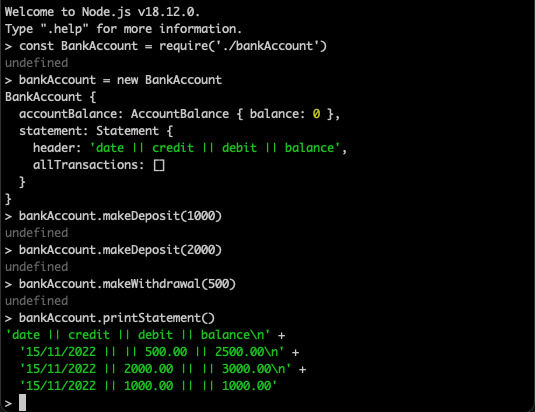
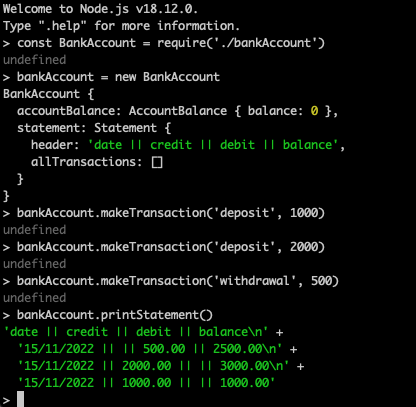
refactoredbank account app so transaction all occur in a single method, updated README & tests to match

diff --git a/spec/bankAccount.test.js b/spec/bankAccount.test.js
@@ -16,26 +16,26 @@ describe('BankAccount', () => {
     });
   });
 
-  describe('#makeDeposit', () => {
+  describe('#makeTransaction', () => {
     it('returns a statement displaying one deposit', () => {
-      bankAccount.makeDeposit(1000);
+      bankAccount.makeTransaction('deposit', 1000);
       expect(bankAccount.printStatement()).toMatch(
         '10/01/2023 || 1000.00 || || 1000.00'
       );
     });
 
     it('returns a statement displaying two deposits', () => {
-      bankAccount.makeDeposit(1000);
-      bankAccount.makeDeposit(2000);
+      bankAccount.makeTransaction('deposit', 1000);
+      bankAccount.makeTransaction('deposit', 2000);
       expect(bankAccount.printStatement()).toMatch(
         '10/01/2023 || 2000.00 || || 3000.00\n10/01/2023 || 1000.00 || || 1000.00'
       );
     });
 
     it('returns a statement displaying two deposits & a withdrawal', () => {
-      bankAccount.makeDeposit(1000);
-      bankAccount.makeDeposit(2000);
-      bankAccount.makeWithdrawal(500);
+      bankAccount.makeTransaction('deposit', 1000);
+      bankAccount.makeTransaction('deposit', 2000);
+      bankAccount.makeTransaction('withdrawal', 500);
       expect(bankAccount.printStatement()).toMatch(
         '10/01/2023 || || 500.00 || 2500.00\n10/01/2023 || 2000.00 || || 3000.00\n10/01/2023 || 1000.00 || || 1000.00'
       );
@@ -43,24 +43,29 @@ describe('BankAccount', () => {
   });
 
   describe('Edge Cases', () => {
-    it('rounds deposit / withdrawal to 2 decimal places', () => {
-      bankAccount.makeDeposit(1000.013);
-      bankAccount.makeWithdrawal(500.066);
+    it('rounds deposit / Transaction to 2 decimal places', () => {
+      bankAccount.makeTransaction('deposit', 1000.013);
+      bankAccount.makeTransaction('withdrawal', 500.066);
       expect(bankAccount.printStatement()).toMatch(
         '10/01/2023 || || 500.07 || 499.95\n10/01/2023 || 1000.01 || || 1000.01'
       );
     });
 
-    it('returns error message if deposit or withdrawal <= 0', () => {
-      expect(bankAccount.makeDeposit(-1000)).toBe(`Error: Deposit can't be <= 0. To withdraw, use makeWithdrawal() function.`)
-      expect(bankAccount.makeDeposit(0)).toBe(`Error: Deposit can't be <= 0. To withdraw, use makeWithdrawal() function.`)
-      expect(bankAccount.makeWithdrawal(-1000)).toBe(`Error: Withdrawal can't be <= 0. To deposit, use makeDeposit() function.`)
-      expect(bankAccount.makeWithdrawal(0)).toBe(`Error: Withdrawal can't be <= 0. To deposit, use makeDeposit() function.`)
+    it('returns error message if deposit or Transaction <= 0', () => {
+      expect(bankAccount.makeTransaction('deposit', -1000)).toBe(`Error: input can't be <= 0.`)
+      expect(bankAccount.makeTransaction('deposit', 0)).toBe(`Error: input can't be <= 0.`)
+      expect(bankAccount.makeTransaction('withdrawal', -1000)).toBe(`Error: input can't be <= 0.`)
+      expect(bankAccount.makeTransaction('withdrawal', 0)).toBe(`Error: input can't be <= 0.`)
     });
 
-    it('returns error message if deposit or withdrawal is not a number', () => {
-      expect(bankAccount.makeDeposit('one')).toBe(`Error: input must be a number`)
-      expect(bankAccount.makeWithdrawal(new Object)).toBe(`Error: input must be a number`)
+    it('returns error message if deposit or Transaction is not a number', () => {
+      expect(bankAccount.makeTransaction('deposit', 'one')).toBe(`Error: input must be a number`)
+      expect(bankAccount.makeTransaction('deposit', new Object)).toBe(`Error: input must be a number`)
+    });
+
+    it('returns error message if transaction is anything other than "deposit" or "withdrawal"', () => {
+      expect(bankAccount.makeTransaction('car', 1000)).toBe(`Error: transaction must be 'withdrawal' or 'deposit' only`)
+      expect(bankAccount.makeTransaction('a', 1000)).toBe(`Error: transaction must be 'withdrawal' or 'deposit' only`)
     });
   });
 });

diff --git a/bankAccount.js b/bankAccount.js
@@ -8,30 +8,28 @@ class BankAccount {
     this.statement = new Statement();
   }
 
-  makeDeposit(amount) {
-    if (amount <= 0)
-      return `Error: Deposit can't be <= 0. To withdraw, use makeWithdrawal() function.`;
-    if (isNaN(amount))
-      return `Error: input must be a number`
-    const transaction = new Transaction();
-    Object.assign(transaction, { deposit: amount, withdrawal: 0 });
-    this.accountBalance.updateWithTransaction(transaction);
-    this.statement.addTransaction(transaction);
-  }
-
-  makeWithdrawal(amount) {
-    if (amount <= 0)
-      return `Error: Withdrawal can't be <= 0. To deposit, use makeDeposit() function.`;
-      if (isNaN(amount))
-      return `Error: input must be a number`
-    const transaction = new Transaction();
-    Object.assign(transaction, { deposit: 0, withdrawal: amount });
-    this.accountBalance.updateWithTransaction(transaction);
-    this.statement.addTransaction(transaction);
+  makeTransaction(transactionType, amount) {
+    if (amount <= 0) { return `Error: input can't be <= 0.` }
+    if (isNaN(amount)) { return `Error: input must be a number` }
+    if (!(transactionType === 'deposit' || transactionType === 'withdrawal')) {
+      return `Error: transaction must be 'withdrawal' or 'deposit' only`;
+}
+    this._transactionProcess(transactionType, amount);
   }
 
   printStatement() {
     return this.statement.printStatement();
+  }
+
+  _transactionProcess(transactionType, amount) {
+    const transaction = new Transaction();
+    if (transactionType === 'deposit') {
+      Object.assign(transaction, { deposit: amount, withdrawal: 0 });
+    } else if (transactionType === 'withdrawal') {
+      Object.assign(transaction, { deposit: 0, withdrawal: amount });
+    }
+    this.accountBalance.updateWithTransaction(transaction);
+    this.statement.addTransaction(transaction);
   }
 }
 module.exports = BankAccount;

diff --git a/README.md b/README.md
@@ -1,4 +1,4 @@
-# Bank Tech Test
+# Bank Account App (Tech Test)
 
 ## Dependencies & installation
 This program runs in JavaScript, is tested using Jest & run in Node.
@@ -44,17 +44,17 @@ Setup new account:
 - bankAccount = new BankAccount()
 
 Deposit or Withdraw an amount into/from your account:
-- bankAccount.makeDeposit({deposit amount})
-OR
-- bankAccount.makeWithdrawal({withdrawal amount})
-
-## Input is handled as follows:
-Multiple deposits & withdrawals can be made.
-Amounts can be any positive number, and will be rounded to 2 decimal places.
-Only numbers are accepted, it is not possible to make 0 or negative value transactions.
+- bankAccount.makeDeposit(transactionType, amount)
 
 Print a statement of your transactions:
 - bankAccount.printStatement()
+
+## Input handling
+- transactionType
+must be 'deposit' or 'withdrawal' else an error will be thrown.
+- amount
+must be a positive number greater than 0, else an error will be thrown.
+numbers will be rounded to 2 decimal places.
 
 ## Usage
 [ScreenShot](./appDisplay.png) of the app's usage.
